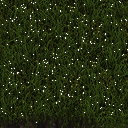
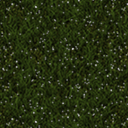
feat: Agregar los tiles de arena and arena_franja_pasto al proyecto

diff --git a/server/game/MapaBuilder.cpp b/server/game/MapaBuilder.cpp
@@ -1,23 +1,25 @@
 #include "MapaBuilder.h"
 
 // floor_ids según tiles.toml
-static constexpr uint16_t F_NEGRO       = 0;
-static constexpr uint16_t F_PIEDRA      = 1;
-static constexpr uint16_t F_PASTO_BASE  = 2;
-static constexpr uint16_t F_TIERRA_BASE = 10;
-static constexpr uint16_t F_AGUA        = 80;
-static constexpr uint16_t F_AC_NORTE    = 90;
-static constexpr uint16_t F_AC_SUR      = 91;
-static constexpr uint16_t F_AC_OESTE    = 92;
-static constexpr uint16_t F_AC_NW       = 93;
-static constexpr uint16_t F_AC_NE       = 94;
-static constexpr uint16_t F_AC_SW       = 95;
-static constexpr uint16_t F_AC_SE       = 96;
+static constexpr uint16_t F_NEGRO        = 0;
+static constexpr uint16_t F_PIEDRA       = 1;
+static constexpr uint16_t F_PASTO_BASE   = 2;
+static constexpr uint16_t F_TIERRA_BASE  = 10;
+static constexpr uint16_t F_ARENA        = 81;
+static constexpr uint16_t F_ARENA_FRANJA = 82;
+static constexpr uint16_t F_AGUA         = 80;
+static constexpr uint16_t F_AC_NORTE     = 90;
+static constexpr uint16_t F_AC_SUR       = 91;
+static constexpr uint16_t F_AC_OESTE     = 92;
+static constexpr uint16_t F_AC_NW        = 93;
+static constexpr uint16_t F_AC_NE        = 94;
+static constexpr uint16_t F_AC_SW        = 95;
+static constexpr uint16_t F_AC_SE        = 96;
 
 // object_sup_ids según objects_sup.toml
-static constexpr uint16_t O_MOLINO      = 1;
-static constexpr uint16_t O_ARBOL       = 2;
-static constexpr uint16_t O_COSTA       = 3;
+static constexpr uint16_t O_MOLINO  = 1;
+static constexpr uint16_t O_ARBOL   = 2;
+static constexpr uint16_t O_COSTA   = 3;
 
 // límites del mapa
 static constexpr int MAP_W = 100;
@@ -31,14 +33,15 @@ static constexpr int ZJ_Y1 = 6,  ZJ_Y2 = 93;
 static constexpr int PL_X1 = 33, PL_X2 = 53;
 static constexpr int PL_Y1 = 35, PL_Y2 = 55;
 
-// caminos — centrados en la plaza
+// caminos
 static constexpr int CAM_H_Y1 = 44, CAM_H_Y2 = 46;
 static constexpr int CAM_V_X1 = 42, CAM_V_X2 = 44;
 
 // costa
-static constexpr int COSTA_X1 = 75, COSTA_X2 = 80;
-static constexpr int ARENA_X1 = 81, ARENA_X2 = 85;
-static constexpr int AGUA_X1  = 86, AGUA_X2  = 93;
+static constexpr int FRANJA_X1 = 75;
+static constexpr int ARENA_X1  = 77, ARENA_X2  = 82;
+static constexpr int OLAS_X1   = 83, OLAS_X2   = 84;
+static constexpr int AGUA_X1   = 85, AGUA_X2   = 93;
 
 //  helpers -------------------------------------------------------------
 
@@ -93,23 +96,18 @@ void MapaBuilder::build_acantilados(MapaDTO& mapa) {
 }
 
 void MapaBuilder::build_pasto(MapaDTO& mapa) {
-    for (int y = ZJ_Y1; y <= ZJ_Y2; y++) {
-        for (int x = ZJ_X1; x <= ZJ_X2; x++) {
-            TileDTO& t = get_tile(mapa, x, y);
-            t.floor_id           = pasto_random();
-            t.object_id          = 0;
-            t.object_superior_id = 0;
+    for (int y = ZJ_Y1; y <= ZJ_Y2; y += 2) {
+        for (int x = ZJ_X1; x <= FRANJA_X1 - 1; x += 2) {
+            get_tile(mapa, x, y).floor_id = pasto_random();
         }
     }
 }
 
 void MapaBuilder::build_caminos(MapaDTO& mapa) {
-    // camino horizontal
     for (int y = CAM_H_Y1; y <= CAM_H_Y2; y++)
-        for (int x = ZJ_X1; x <= COSTA_X1; x++)
+        for (int x = ZJ_X1; x <= FRANJA_X1; x++)
             get_tile(mapa, x, y).floor_id = F_TIERRA_BASE + (rand() % 5);
 
-    // camino vertical
     for (int y = ZJ_Y1; y <= ZJ_Y2; y++)
         for (int x = CAM_V_X1; x <= CAM_V_X2; x++)
             get_tile(mapa, x, y).floor_id = F_TIERRA_BASE + (rand() % 5);
@@ -120,30 +118,32 @@ void MapaBuilder::build_plaza(MapaDTO& mapa) {
 }
 
 void MapaBuilder::build_costa(MapaDTO& mapa) {
-    // transición pasto→arena
-    for (int y = ZJ_Y1; y <= ZJ_Y2; y++)
-        for (int x = COSTA_X1; x <= COSTA_X2; x++)
-            get_tile(mapa, x, y).floor_id = F_TIERRA_BASE + 10 + (rand() % 5);
+    // franja pasto→arena — una sola columna de anclas
+    for (int y = ZJ_Y1; y <= ZJ_Y2; y += 2)
+        get_tile(mapa, FRANJA_X1, y).floor_id = F_ARENA_FRANJA;
 
-    // arena
-    for (int y = ZJ_Y1; y <= ZJ_Y2; y++)
-        for (int x = ARENA_X1; x <= ARENA_X2; x++)
-            get_tile(mapa, x, y).floor_id = F_TIERRA_BASE + 15 + (rand() % 5);
+    // arena pura
+    for (int y = ZJ_Y1; y <= ZJ_Y2; y += 2)
+        for (int x = ARENA_X1; x <= ARENA_X2; x += 2)
+            get_tile(mapa, x, y).floor_id = F_ARENA;
+
+    // arena con ola animada encima
+    for (int y = ZJ_Y1; y <= ZJ_Y2; y += 2)
+        for (int x = OLAS_X1; x <= OLAS_X2; x += 2) {
+            get_tile(mapa, x, y).floor_id = F_ARENA;
+            place_object_sup(mapa, x, y, O_COSTA);
+        }
 
     // agua
     fill_rect(mapa, AGUA_X1, ZJ_Y1, AGUA_X2, ZJ_Y2, F_AGUA);
-
-    // costa animada
-    for (int y = ZJ_Y1; y <= ZJ_Y2; y++)
-        place_object_sup(mapa, ARENA_X2, y, O_COSTA);
 }
 
 void MapaBuilder::build_objetos(MapaDTO& mapa) {
     // molinos 
     place_object_sup(mapa, PL_X1 + 3, PL_Y1 + 4, O_MOLINO);
-    place_object_sup(mapa, PL_X2, PL_Y1 + 4, O_MOLINO);
+    place_object_sup(mapa, PL_X2,     PL_Y1 + 4, O_MOLINO);
     place_object_sup(mapa, PL_X1 + 3, PL_Y2 + 1, O_MOLINO);
-    place_object_sup(mapa, PL_X2, PL_Y2 + 1, O_MOLINO);
+    place_object_sup(mapa, PL_X2,     PL_Y2 + 1, O_MOLINO);
 
     // árbol — centro de la plaza
     place_object_sup(mapa, (PL_X1 + PL_X2) / 2 + 1, (PL_Y1 + PL_Y2) / 2 + 3, O_ARBOL);